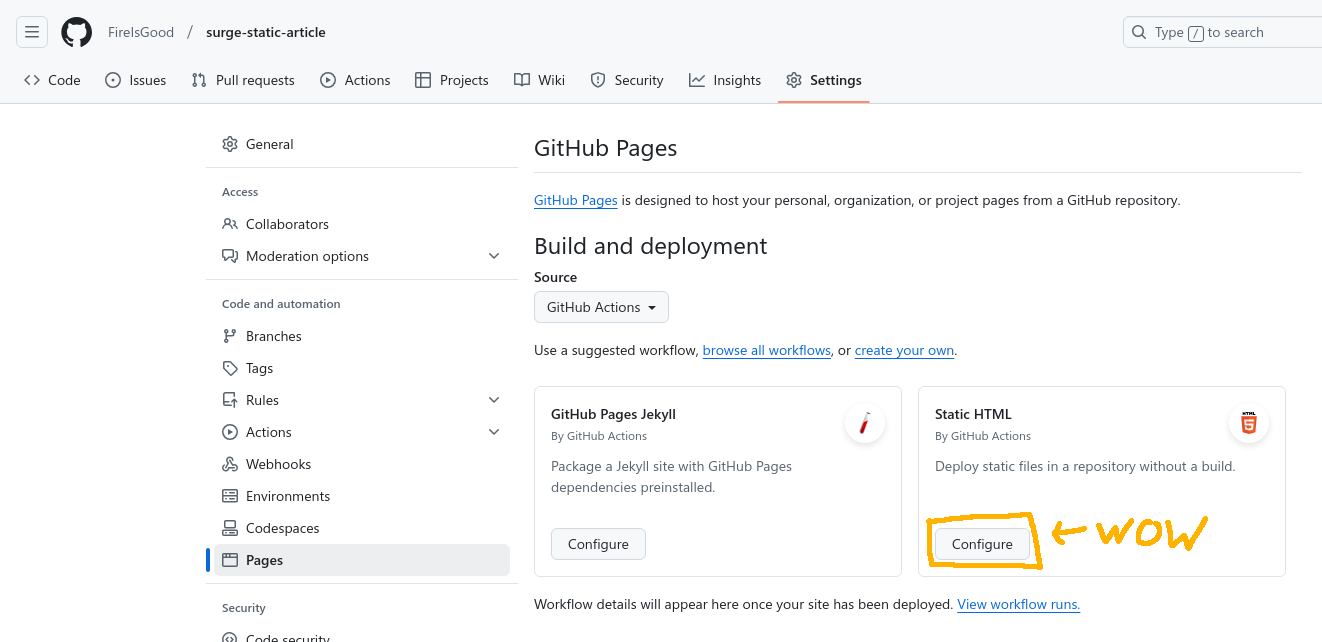
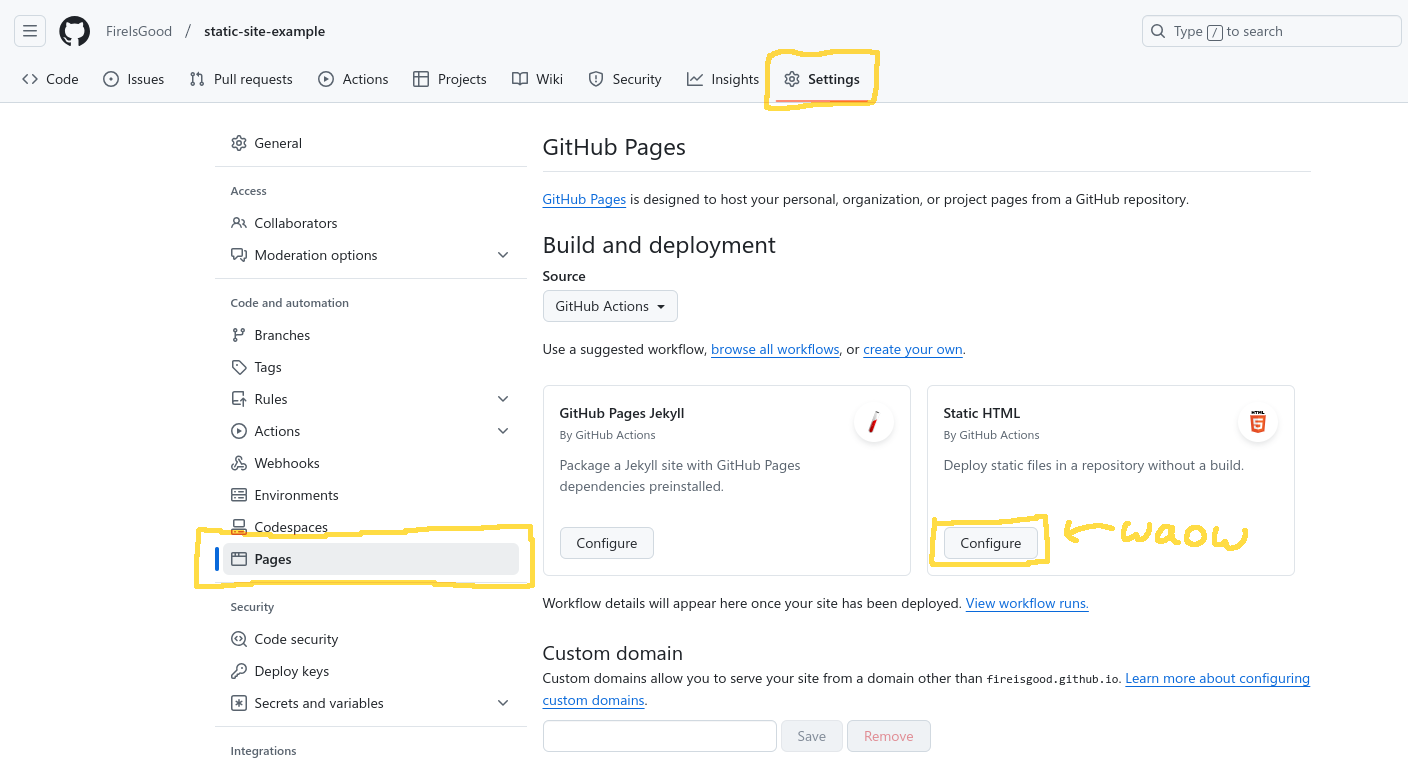
feat: better images and examples for GitHub hosting

diff --git a/src/content/blog/static-sites-really-fast.md b/src/content/blog/static-sites-really-fast.md
@@ -155,18 +155,31 @@ Changes**, rename the commit if you want, and click **Confirm**.
 
 ![Setting up the GitHub Pages workflow](../../images/gh-pages-actions.png)
 
-Your site should now be up within a few seconds. You can set its link to be easily seen by going to the top right gear
-icon and then checking the **Use your GitHub Pages website** option. While you're there, you can also uncheck the
-**Releases** and **Packages** options to clean up the side bar. Save your changes and your link should be shown under
-the **About** header.
+This adds a file at `.github/workflows/static.yml` which will redeploy your site whenever changes are pushed to main. If
+you ever need to change anything about this, you can find it in that file. Your site should now be up within a few
+seconds!
+
+#### Final Touches
+
+For some final touches, you can make the GitHub page link directly to your new site instead of having users find it
+under Deployments. To do this, navigate to the top right gear icon to open the settings.
+
+![Opening repository settings](../../images/gh-pages-menu-cog.png)
+
+Then, check the **Use your GitHub Pages website**. While you're there, you can also uncheck the **Releases** and
+**Packages** options to clean up the side bar.
 
 ![Changing repository settings](../../images/gh-pages-repo-settings.png)
 
-Whenever you want to update your website, just push local Git changes to your main branch.
+After you save your changes, the link to your site should appear under the About header.
 
-You can see my example at
-[fireisgood.github.io/surge-static-article](https://fireisgood.github.io/surge-static-article/) and its moderately
-minimal code at my [GitHub repository](https://github.com/FireIsGood/surge-static-article).
+![Fixed About section](../../images/gh-pages-about-after.png)
+
+Whenever you want to update your website, just push local Git changes to your main branch. As with the initial
+deployment, changes should appear live on the site within seconds!
+
+You can see my example at [fireisgood.github.io/surge-static-article](https://fireisgood.github.io/static-site-example/)
+and its moderately minimal code at my [GitHub repository](https://github.com/FireIsGood/static-site-example).
 
 For a more detailed guide, you can check out the [GitHub Pages Docs](https://docs.github.com/en/pages/quickstart) on
 this topic.
